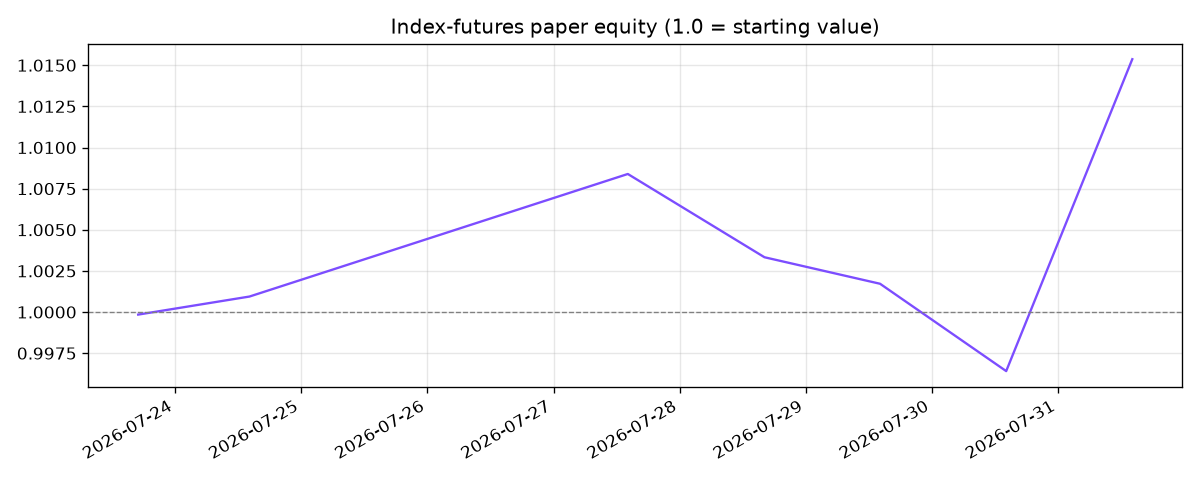
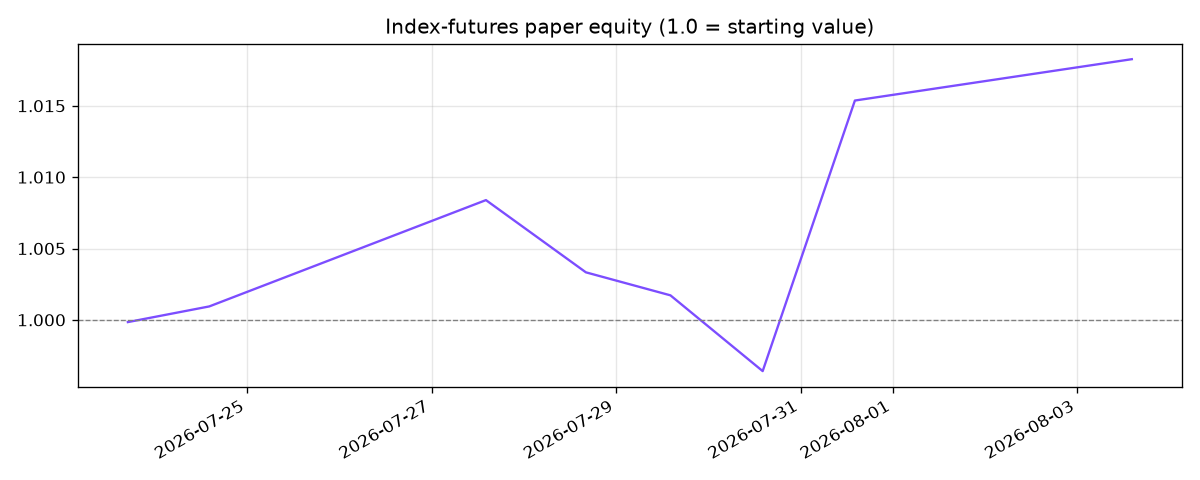
tick status: 2026-08-03T14:12Z

diff --git a/CFM_STATUS.md b/CFM_STATUS.md
@@ -9,41 +9,41 @@ money. Book: slow momentum 60% / funding carry 40% (see cfm_backtest.py).*
 
 | | |
 |---|---|
-| **Equity** | **0.9553** (-4.47% since start) |
-| Peak / drawdown | 1.0141 / -5.80% |
-| Ticks recorded | 250 |
-| Last tick | 2026-08-03T13:11:22.929181+00:00 (+0.1574%) |
-| Risk rails | normal (dd -5.8%) |
-| Data source | coinbase-cfm (bar 2026-08-03 12:00:00+00:00) |
-| Gross leverage | 3.03x |
+| **Equity** | **0.9464** (-5.36% since start) |
+| Peak / drawdown | 1.0141 / -6.68% |
+| Ticks recorded | 251 |
+| Last tick | 2026-08-03T14:11:46.344485+00:00 (-0.9331%) |
+| Risk rails | normal (dd -6.7%) |
+| Data source | coinbase-cfm (bar 2026-08-03 13:00:00+00:00) |
+| Gross leverage | 3.07x |
 | Weeks tracked | 2 |
-| Average week | +1.66% |
+| Average week | +1.19% |
 | Weeks >= +3% | 0% |
-| Best / worst week | +1.74% / +1.58% |
+| Best / worst week | +1.74% / +0.63% |
 
 ## Positions (weight of account / whole contracts)
 
 | Long | Size | Contracts |
 |---|---|---|
-| ETH perp | +30.9% | +16 |
-| XLM perp | +26.9% | +3 |
-| SOL perp | +15.1% | +4 |
-| ADA perp | +9.9% | +5 |
-| AAVE perp | +4.8% | +1 |
-| DOT perp | +3.4% | +4 |
+| ETH perp | +31.4% | +16 |
+| XLM perp | +27.3% | +3 |
+| SOL perp | +15.5% | +4 |
+| ADA perp | +10.3% | +5 |
+| AAVE perp | +4.9% | +1 |
+| DOT perp | +3.5% | +4 |
 
 | Short | Size | Contracts |
 |---|---|---|
-| LTC perp | -39.1% | -17 |
-| BNB perp | -36.8% | -6 |
-| DOGE perp | -32.7% | -9 |
-| BCH perp | -24.2% | -11 |
-| ZEC perp | -20.2% | -4 |
-| LINK perp | -17.1% | -4 |
-| XRP perp | -16.7% | -3 |
-| BTC perp | -13.1% | -2 |
-| NEAR perp | -8.9% | -1 |
-| AVAX perp | -3.4% | -5 |
+| LTC perp | -37.5% | -16 |
+| BNB perp | -37.2% | -6 |
+| DOGE perp | -33.4% | -9 |
+| BCH perp | -24.6% | -11 |
+| ZEC perp | -20.7% | -4 |
+| LINK perp | -17.5% | -4 |
+| XRP perp | -17.0% | -3 |
+| BTC perp | -13.4% | -2 |
+| NEAR perp | -9.1% | -1 |
+| AVAX perp | -3.5% | -5 |
 
 *Every position is an integer number of CDE contracts at the configured
 account size - exactly what a live account could hold.*

diff --git a/STATUS.md b/STATUS.md
@@ -8,17 +8,17 @@ and 8h funding settlements.*
 
 | | |
 |---|---|
-| **Equity** | **1.0410** (+4.10% since start) |
-| Peak / drawdown | 1.0572 / -1.54% |
-| Ticks recorded | 264 |
-| Last tick | 2026-08-03T13:09:31.281185+00:00 (-0.1544%) |
-| Risk rails | normal (dd -1.5%); blind 2.2h -> 50% size on resume |
-| Data source | okx (bar 2026-08-03 12:00:00+00:00) |
+| **Equity** | **1.0347** (+3.47% since start) |
+| Peak / drawdown | 1.0572 / -2.13% |
+| Ticks recorded | 265 |
+| Last tick | 2026-08-03T14:11:21.690862+00:00 (-0.6078%) |
+| Risk rails | normal (dd -2.1%); blind 2.2h -> 50% size on resume |
+| Data source | okx (bar 2026-08-03 13:00:00+00:00) |
 | Gross leverage | 1.63x |
 | Weeks tracked | 2 |
-| Average week | +2.11% |
+| Average week | +1.80% |
 | Weeks ≥ +3% | 50% |
-| Best / worst week | +3.03% / +1.18% |
+| Best / worst week | +3.03% / +0.56% |
 
 ## Positions (futures contracts, fraction of account)
 
@@ -38,14 +38,14 @@ and 8h funding settlements.*
 |---|---|
 | BNB perp | -21.2% |
 | LINK perp | -15.1% |
-| SUSHI perp | -14.8% |
-| LTC perp | -11.9% |
-| UNI perp | -11.5% |
-| DOGE perp | -10.7% |
+| SUSHI perp | -14.7% |
+| LTC perp | -11.8% |
+| UNI perp | -11.4% |
+| DOGE perp | -10.6% |
 | BCH perp | -7.8% |
-| THETA perp | -6.5% |
+| THETA perp | -6.4% |
 | BTC perp | -4.4% |
-| XRP perp | -3.5% |
+| XRP perp | -3.4% |
 | ATOM perp | -2.1% |
 | DOT perp | -1.6% |
 | FIL perp | -1.0% |

diff --git a/INDEX_STATUS.md b/INDEX_STATUS.md
@@ -9,26 +9,26 @@ turnover cost and T-bill financing.*
 
 | | |
 |---|---|
-| **Equity** | **1.0154** (+1.54% since start) |
-| Peak / drawdown | 1.0154 / +0.00% |
-| Fills recorded | 7 |
-| Last fill | 2026-07-31 (+1.9024%) |
-| Pending order | 2026-07-31 |
-| Risk rails | normal (dd -1.2%) |
-| Gross leverage | 0.98x |
-| Weeks tracked | 1 |
-| Average week | +1.44% |
+| **Equity** | **1.0183** (+1.83% since start) |
+| Peak / drawdown | 1.0154 / +0.29% |
+| Fills recorded | 8 |
+| Last fill | 2026-08-03 (+0.2852%) |
+| Pending order | none |
+| Risk rails | normal (dd +0.0%) |
+| Gross leverage | 0.99x |
+| Weeks tracked | 2 |
+| Average week | +0.86% |
 | Weeks ≥ +3% | 0% |
-| Best / worst week | +1.44% / +1.44% |
+| Best / worst week | +1.44% / +0.29% |
 
 ## Positions (fraction of account, futures-notional)
 
 | Long | Size |
 |---|---|
-| MES (SPY) | +36.5% |
-| MYM (DIA) | +21.1% |
-| M2K (IWM) | +20.6% |
-| MNQ (QQQ) | +19.7% |
+| MES (SPY) | +36.6% |
+| MYM (DIA) | +21.7% |
+| M2K (IWM) | +20.8% |
+| MNQ (QQQ) | +20.0% |
 
 | Short | Size |
 |---|---|
